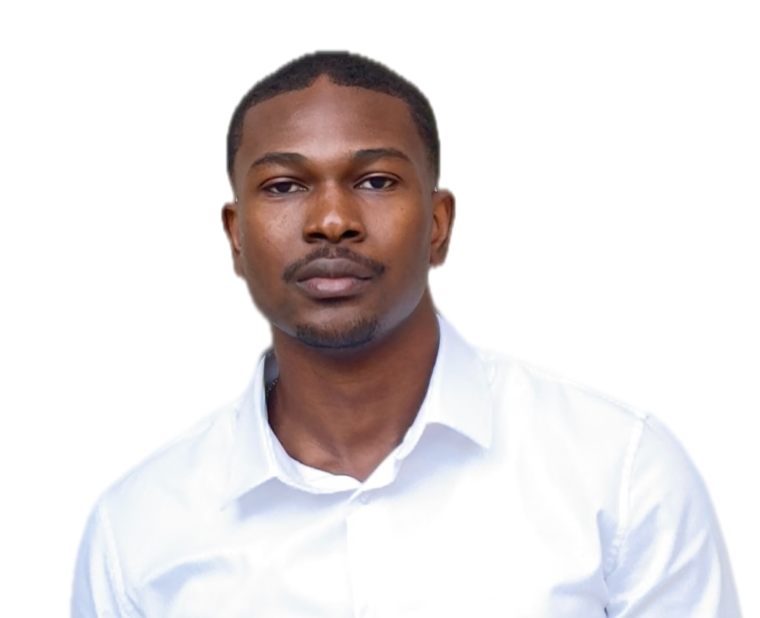
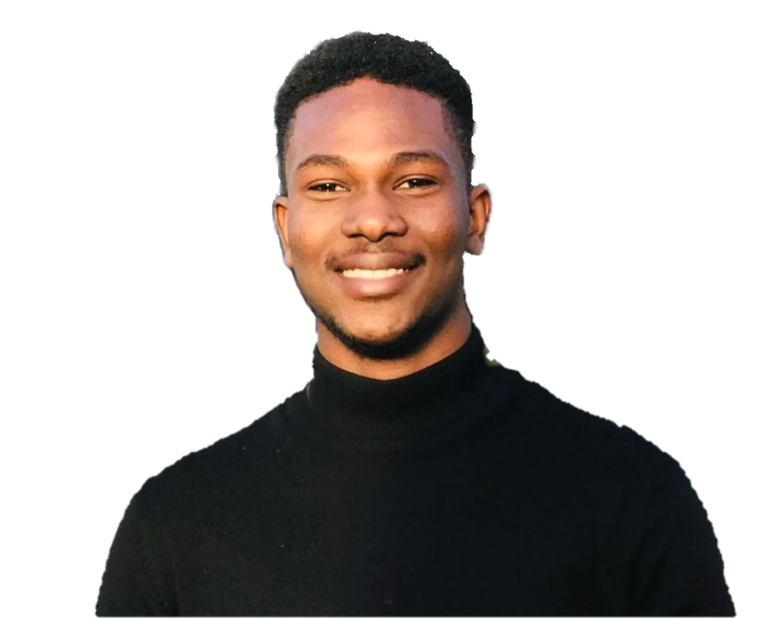
Changer la photo du portrait

diff --git a/index.html b/index.html
@@ -39,7 +39,7 @@
     <main id="contenu">
       <section class="opening shell" id="top">
         <div class="opening-text">
-          <div class="identity"><img src="media/portrait.png?v=20261005j" width="760" height="618" alt="" /><p><strong>Ikel Ouedraogo</strong></p></div>
+          <div class="identity"><img src="media/portrait.png?v=20261006a" width="760" height="618" alt="" /><p><strong>Ikel Ouedraogo</strong></p></div>
           <h1>Data Engineer orienté analytics</h1>
           <p class="hero-summary">Pendant trois ans chez Generali, j’ai construit des pipelines marketing et travaillé sur la migration vers Snowflake. Je produisais aussi les indicateurs de performance des campagnes, suivis chaque semaine et chaque mois par le marketing digital, la direction et les équipes commerciales.</p>
           <div class="hero-actions"><a class="text-button" href="#projets">Voir les projets</a><a class="text-button" href="notes/index.html">Voir les publications</a></div>

diff --git a/en/index.html b/en/index.html
@@ -39,7 +39,7 @@
     <main id="contenu">
       <section class="opening shell" id="top">
         <div class="opening-text">
-          <div class="identity"><img src="../media/portrait.png?v=20261005j" width="760" height="618" alt="" /><p><strong>Ikel Ouedraogo</strong></p></div>
+          <div class="identity"><img src="../media/portrait.png?v=20261006a" width="760" height="618" alt="" /><p><strong>Ikel Ouedraogo</strong></p></div>
           <h1>Analytics-minded Data Engineer</h1>
           <p class="hero-summary">For three years at Generali, I built marketing pipelines and worked on the migration to Snowflake. I also produced the campaign performance metrics that digital marketing, management and sales teams followed every week and every month.</p>
           <div class="hero-actions"><a class="text-button" href="#projets">See projects</a><a class="text-button" href="../notes/index.html">See publications</a></div>
